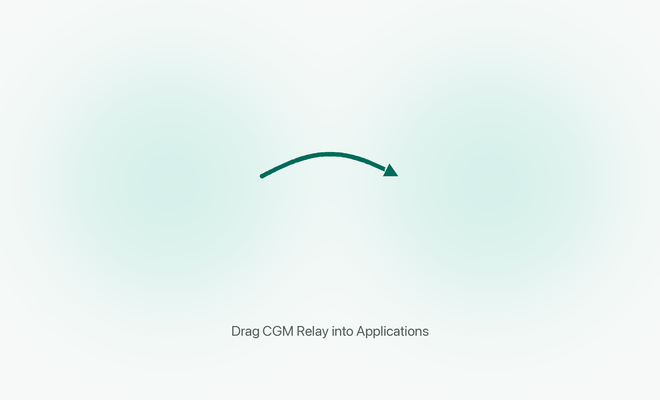
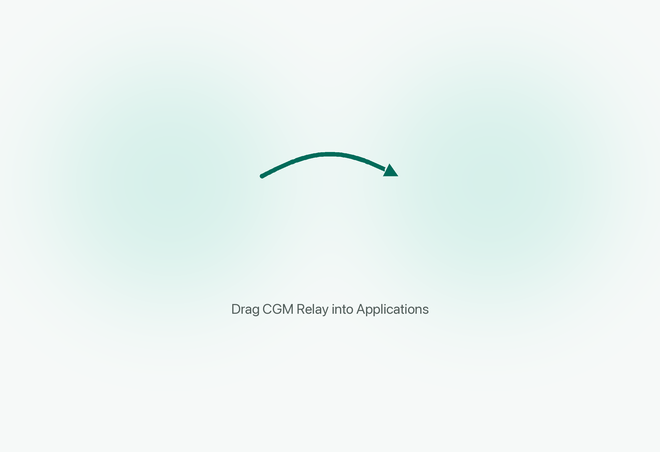
Keep the Install Instruction Visible Under a Toolbar
Finder on current macOS keeps the toolbar strip in a disk image window,
which hid the instruction line at the bottom of the art. The art is now
taller, the line sits higher, the window leaves room below it, and the
path bar is hidden as well.

Changed region(s): [[0.3939, 0.33, 0.6061, 0.45], [0.3333, 0.66, 0.6667, 0.72], [0.3333, 0.81, 0.6667, 0.84]]

diff --git a/macos/scripts/dmg/make-background.py b/macos/scripts/dmg/make-background.py
@@ -1,7 +1,7 @@
 #!/usr/bin/env python3
 # Draws the installer window background: a light field, a soft glow behind
 # each icon slot, an arrow from the app to Applications and one line of
-# instruction. Writes background.png (660x400) and background@2x.png beside
+# instruction. Writes background.png (660x452) and background@2x.png beside
 # this script; release.sh turns the pair into the image the window shows.
 # Needs Pillow; run it only when the art changes, and commit both PNGs.
 import math
@@ -9,7 +9,7 @@ import os
 import sys
 from PIL import Image, ImageDraw, ImageFont, ImageFilter
 out = sys.argv[1] if len(sys.argv) > 1 else os.path.dirname(os.path.abspath(__file__))
-W, H = 660, 400
+W, H = 660, 452
 def render(scale):
     k = scale * 4                      # supersample, then downsample for smooth edges
     im = Image.new("RGB", (W*k, H*k), (246, 249, 248))
@@ -46,7 +46,7 @@ def render(scale):
         f = ImageFont.load_default()
     text = "Drag CGM Relay into Applications"
     tw = d.textlength(text, font=f)
-    d.text(((W*k - tw)/2, 322*k), text, font=f, fill=(84, 96, 93))
+    d.text(((W*k - tw)/2, 300*k), text, font=f, fill=(84, 96, 93))
     return im.resize((W*scale, H*scale), Image.LANCZOS)
 render(1).save(f"{out}/background.png")
 render(2).save(f"{out}/background@2x.png")
